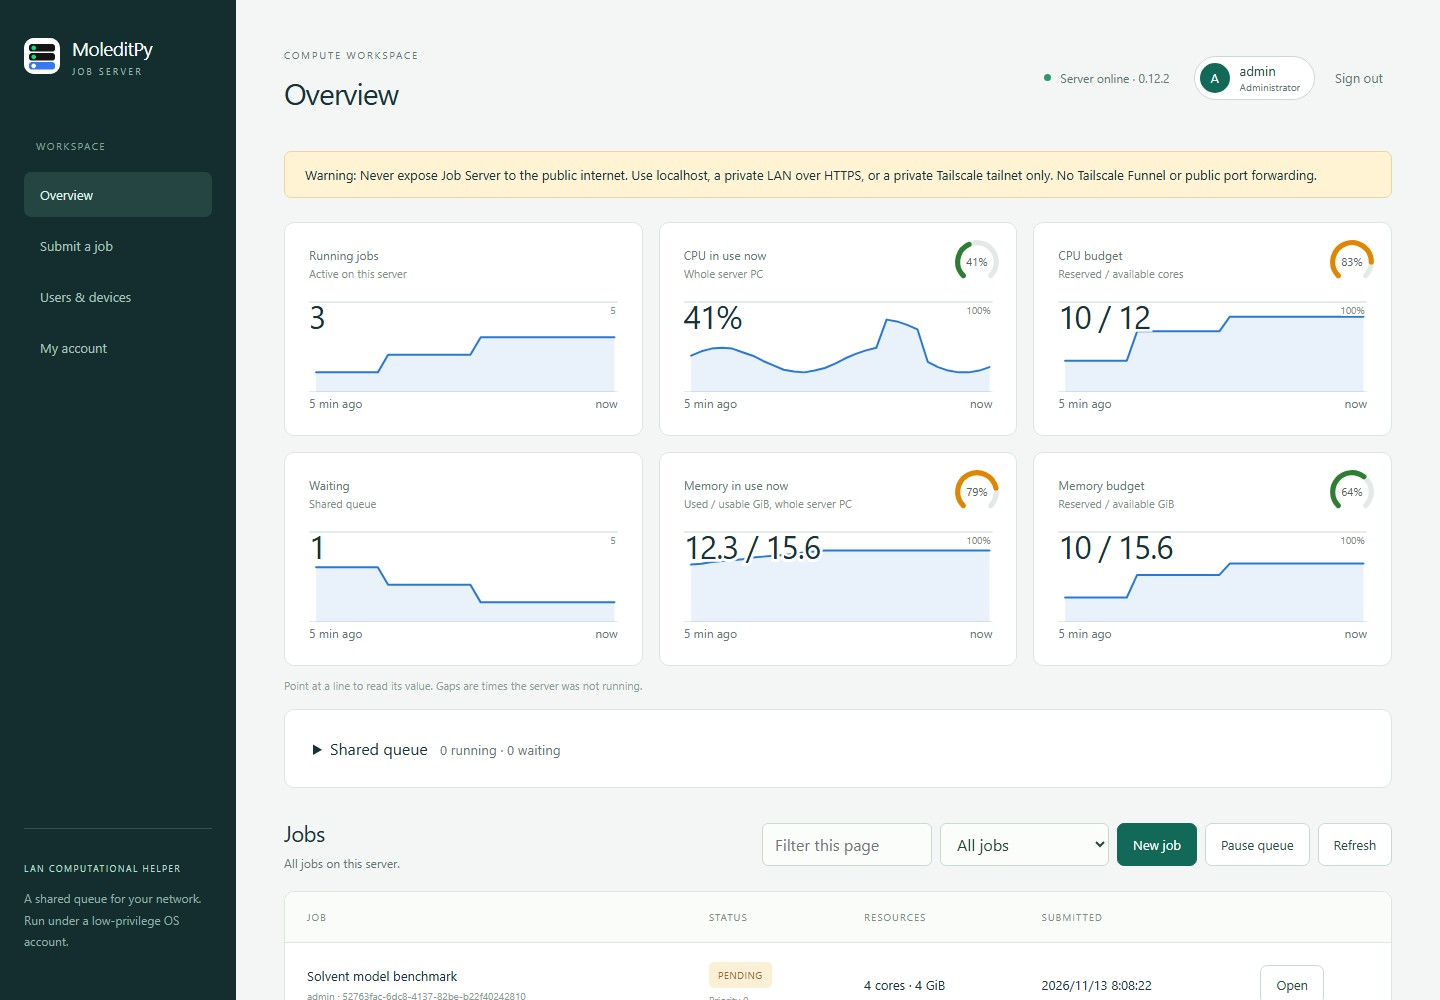
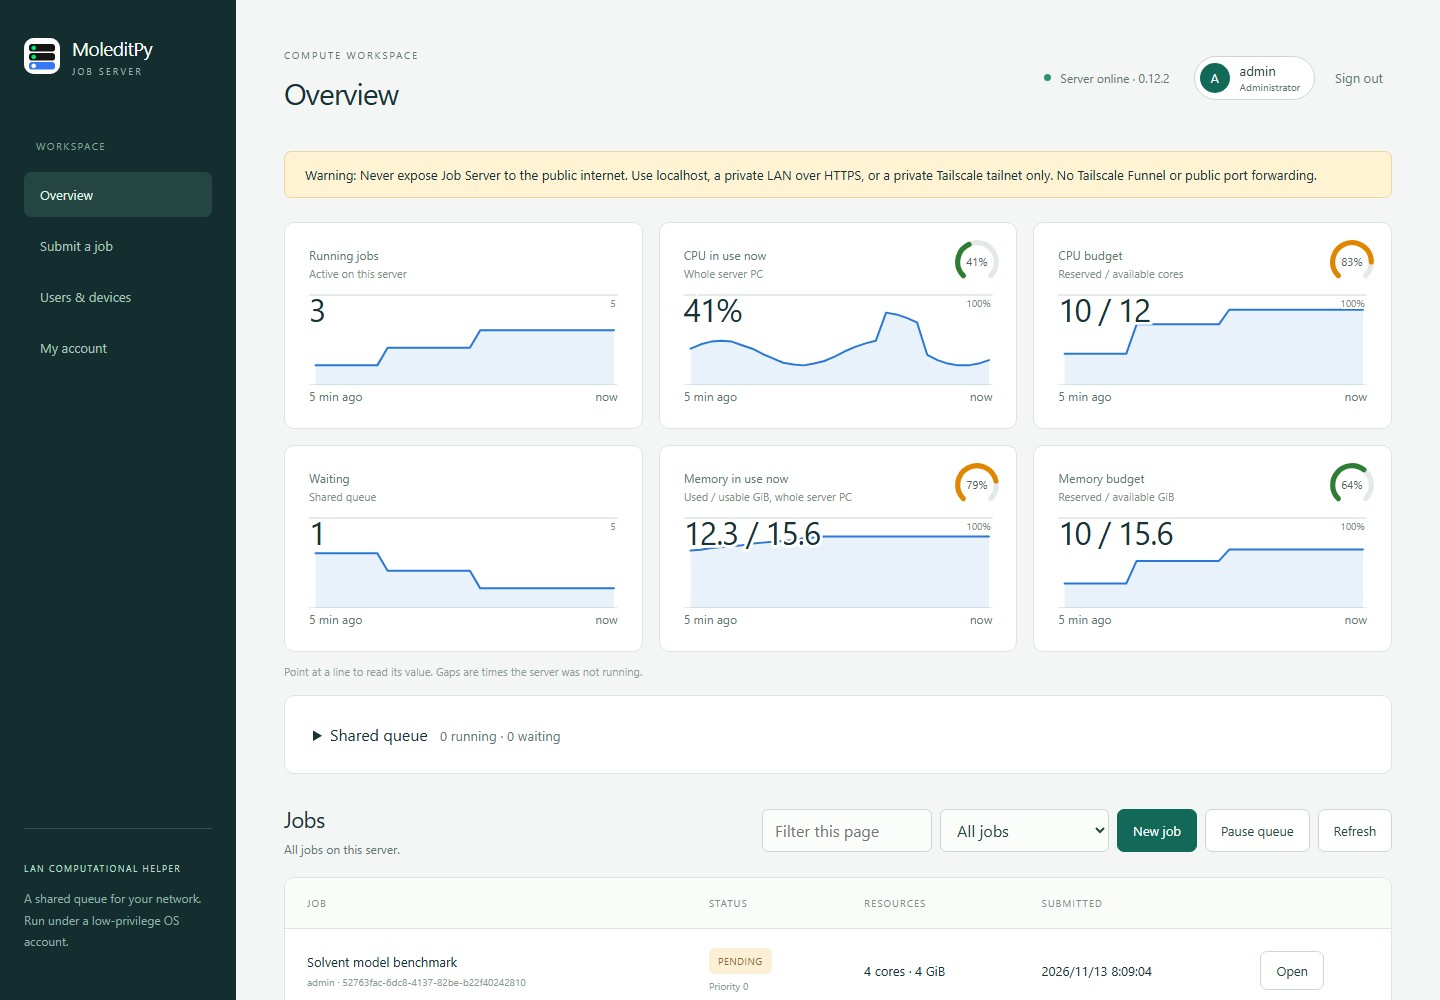
Raise the web figures closer to their captions

diff --git a/job_server/web/app.css b/job_server/web/app.css
@@ -1,5 +1,5 @@
 @font-face{font-family:system;src:local("Segoe UI")}
-:root{font-family:system,Inter,ui-sans-serif,sans-serif;color:#193237;background:#f4f6f5;font-synthesis:none;--line:#dce5e2;--muted:#637774;--teal:#126958;--nav:#142e30}*{box-sizing:border-box}body{margin:0;display:flex;min-height:100vh}button,input,textarea,select{font:inherit}button{cursor:pointer;border:1px solid #cad8d3;background:white;border-radius:7px;color:#254b44;font-size:13px;font-weight:600;padding:10px 15px;white-space:nowrap}button:hover{background:#edf5f1}tr.clickable{cursor:pointer}tr.clickable:hover td{background:#f3f8f6}button:disabled{opacity:.45;cursor:default}button:focus-visible,a:focus-visible{outline:3px solid #78cbb1;outline-offset:3px}.primary{background:var(--teal);color:white;border-color:var(--teal)}.primary:hover{background:#0e5144}[hidden]{display:none!important}.sidebar{width:236px;background:var(--nav);color:#dcece6;padding:35px 24px;position:fixed;inset:0 auto 0 0;display:flex;flex-direction:column}.brand{display:flex;align-items:center;gap:12px;text-decoration:none;color:white;font-size:19px;font-weight:700;letter-spacing:-.5px}.brand-mark{background:#b8e4ca;border-radius:10px;width:36px;height:36px;display:grid;place-items:center;color:#164f3d;font-size:23px}.brand small{display:block;font-size:9px;letter-spacing:2.3px;font-weight:500;margin-top:4px;color:#9bb9ad}.nav-caption{font-size:10px;letter-spacing:1.5px;color:#83a69b;margin:62px 12px 16px}.nav{width:100%;text-align:left;border:0;background:transparent;color:#a8c4bb;margin:3px 0;padding:14px 16px}.nav.active,.nav:hover{background:#244541;color:#e2f8e9}.sidebar-bottom{margin-top:auto;border-top:1px solid #35524c;padding-top:26px}.preview{font-size:9px;letter-spacing:1.4px;color:#b8ddc7}.sidebar-bottom p{font-size:12px;color:#8fb0a4;line-height:1.8}.quiet{border-color:#446b5d;background:transparent;color:white}main{margin-left:236px;padding:42px 48px;width:calc(100% - 236px);max-width:1600px}header{display:flex;justify-content:space-between;align-items:center;margin-bottom:38px}.eyebrow{font-size:10px;font-weight:700;letter-spacing:1.8px;color:var(--muted)}h1{font-size:30px;font-weight:600;margin:10px 0 0;letter-spacing:-1px}.connection{display:flex;align-items:center;gap:9px;font-size:12px;color:var(--muted)}.dot{height:7px;width:7px;display:block;border-radius:50%;background:#c5ccca}.dot.online{background:#2e956f}.connection button{margin-left:15px}.welcome{background:#e2eee7;border:1px solid #d5e5da;padding:34px 38px;border-radius:12px;display:flex;align-items:center;justify-content:space-between;gap:20px}.welcome .eyebrow{color:#477765}h2{font-size:22px;font-weight:600;letter-spacing:-.6px}.welcome h2{font-size:30px;line-height:1.2;margin:14px 0}.welcome p{color:#567368;font-size:14px;line-height:1.7;margin-bottom:0}.welcome .primary{padding:13px 19px}.welcome .primary span{padding-left:20px}.metrics{display:grid;grid-template-columns:repeat(4,1fr);gap:16px;margin:24px 0 38px}.metrics article{background:white;border:1px solid var(--line);border-radius:10px;padding:24px}.metrics span{display:block;color:var(--muted);font-size:12px}.metrics strong{display:block;font-size:32px;font-weight:500;margin:13px 0;letter-spacing:-1px}.metrics small{display:block;margin-top:3px;font-size:11px;color:#7e9189}.metrics article{position:relative}.dial{position:absolute;top:14px;right:14px;width:50px;height:50px}.dial path{fill:none;stroke-width:4.5;stroke-linecap:round}.dial-track{stroke:#e3e9e7}.dial-value{stroke:#2e7d32}.dial-text{font-size:10px;font-weight:600;fill:#52655f;text-anchor:middle}.dial-value.warn{stroke:#e08600}.dial-value.high{stroke:#c62828}.dial-value.unknown{opacity:0}.trend{margin-top:-50px}.metrics strong,.metrics small,.metrics article>span{position:relative;z-index:1;pointer-events:none}.dial{z-index:1}.metrics strong,.metrics small{-webkit-text-stroke:5px white;paint-order:stroke fill}.trend-top-label{font-size:10px;fill:#7e9189;text-anchor:end;stroke:white;stroke-width:4px;stroke-linejoin:round;paint-order:stroke fill}.trend-area{fill:#2a78d6;opacity:.1}.trend svg{display:block;width:100%;height:92px;overflow:visible}.trend-base{stroke:#e3e9e7;stroke-width:1}.trend-top{stroke:#cad8d3;stroke-width:1}.trend-line{fill:none;stroke:#2a78d6;stroke-width:2;stroke-linejoin:round;stroke-linecap:round}.trend-cross{stroke:#9aa9a4;stroke-width:1}.trend-dot{fill:#2a78d6;stroke:white;stroke-width:2}.trend-axis{display:flex;justify-content:space-between;font-size:10px;color:#8d9d97;margin-top:3px}.metrics{margin-bottom:12px}.span-row{display:flex;justify-content:space-between;align-items:center;gap:12px;margin:0 0 30px}.span-row small{font-size:11px;color:#8d9d97}.span-switch{display:flex;border:1px solid #cad8d3;border-radius:7px;overflow:hidden;background:white}.span-switch button{border:0;border-radius:0;padding:6px 12px;font-size:12px;color:#52655f;background:transparent}.span-switch button+button{border-left:1px solid #e3e9e7}.span-switch button.active{background:var(--teal);color:white}.trend-tip{position:fixed;z-index:20;pointer-events:none;background:#193237;color:white;font-size:12px;padding:5px 8px;border-radius:6px;white-space:nowrap}.section-head{display:flex;justify-content:space-between;align-items:center;margin:20px 0}.section-head h2,.section-head h3{margin:0 0 7px}.section-head p{margin:0;color:var(--muted);font-size:12px}.actions{display:flex;gap:8px}.table-wrap{background:white;border:1px solid var(--line);border-radius:10px;overflow:auto}table{border-collapse:collapse;width:100%;text-align:left;font-size:13px}th{background:#fafcfa;color:#7a8e85;font-size:10px;text-transform:uppercase;letter-spacing:1px;font-weight:600;padding:18px 22px;border-bottom:1px solid var(--line)}td{padding:19px 22px;border-bottom:1px solid #edf1ed}tr:last-child td{border:0}.job-name{font-weight:600}.job-id{display:block;color:#8a9b95;font-size:10px;margin-top:5px}.badge{display:inline-block;font-size:10px;letter-spacing:.4px;padding:6px 9px;border-radius:5px;background:#edf1ef;color:#60766a}.badge.running,.badge.done{background:#dff0e6;color:#21694c}.badge.pending,.badge.queued,.badge.uploading{background:#fbefd6;color:#92692c}.badge.failed,.badge.lost,.badge.cancelled,.badge.blocked{background:#f8e5e0;color:#9f5546}.empty{text-align:center;color:#8a9b92;padding:70px 20px}.footnote{font-size:11px;line-height:1.7;color:#86998f;margin-top:26px}.notice{background:#fff3d4;border:1px solid #ecd5a1;border-radius:7px;padding:14px 20px;font-size:13px;margin-bottom:20px}.card{background:white;border:1px solid var(--line);padding:28px;border-radius:10px}.form-card{max-width:830px}label{display:block;font-size:12px;font-weight:600;margin-bottom:20px;color:#466356}input,textarea,select{display:block;width:100%;border:1px solid #ccd9d1;border-radius:6px;background:#fbfdfb;color:#244737;padding:12px;margin-top:8px;outline-color:#67b695}textarea{font-family:ui-monospace,Consolas,monospace;font-size:13px;resize:vertical}label small{display:block;font-weight:400;font-size:11px;color:#809488;margin-top:9px;line-height:1.5}.form-row{display:flex;gap:20px;align-items:end}.form-row label{flex:1}.form-actions{display:flex;justify-content:space-between;align-items:center;gap:14px;margin-top:10px}.form-actions span{font-size:12px;color:var(--muted)}.checkbox{display:flex;align-items:center;gap:10px}.checkbox input{width:16px;margin:0}.device-title{margin-top:35px}.paging{display:flex;justify-content:flex-end;align-items:center;gap:16px;margin-top:16px;font-size:12px;color:var(--muted)}pre{white-space:pre-wrap;overflow-wrap:anywhere;font:12px/1.7 ui-monospace,Consolas,monospace;background:#eaf0eb;padding:20px;border-radius:8px}.log{background:#18332e;color:#c6e4d0;min-height:180px;max-height:400px;overflow:auto}.results{padding:0;list-style:none}.results li{display:flex;justify-content:space-between;align-items:center;background:white;border-bottom:1px solid var(--line);padding:14px 18px;font-size:13px}.results small{color:var(--muted);padding-left:12px}dialog{border:1px solid var(--line);border-radius:14px;padding:34px;max-width:470px;width:calc(100vw - 40px);color:#244135}dialog::backdrop{background:#112e28aa;backdrop-filter:blur(4px)}dialog p{font-size:13px;color:var(--muted);line-height:1.6}dialog h2{font-size:26px}#login-status{color:#a65236}
+:root{font-family:system,Inter,ui-sans-serif,sans-serif;color:#193237;background:#f4f6f5;font-synthesis:none;--line:#dce5e2;--muted:#637774;--teal:#126958;--nav:#142e30}*{box-sizing:border-box}body{margin:0;display:flex;min-height:100vh}button,input,textarea,select{font:inherit}button{cursor:pointer;border:1px solid #cad8d3;background:white;border-radius:7px;color:#254b44;font-size:13px;font-weight:600;padding:10px 15px;white-space:nowrap}button:hover{background:#edf5f1}tr.clickable{cursor:pointer}tr.clickable:hover td{background:#f3f8f6}button:disabled{opacity:.45;cursor:default}button:focus-visible,a:focus-visible{outline:3px solid #78cbb1;outline-offset:3px}.primary{background:var(--teal);color:white;border-color:var(--teal)}.primary:hover{background:#0e5144}[hidden]{display:none!important}.sidebar{width:236px;background:var(--nav);color:#dcece6;padding:35px 24px;position:fixed;inset:0 auto 0 0;display:flex;flex-direction:column}.brand{display:flex;align-items:center;gap:12px;text-decoration:none;color:white;font-size:19px;font-weight:700;letter-spacing:-.5px}.brand-mark{background:#b8e4ca;border-radius:10px;width:36px;height:36px;display:grid;place-items:center;color:#164f3d;font-size:23px}.brand small{display:block;font-size:9px;letter-spacing:2.3px;font-weight:500;margin-top:4px;color:#9bb9ad}.nav-caption{font-size:10px;letter-spacing:1.5px;color:#83a69b;margin:62px 12px 16px}.nav{width:100%;text-align:left;border:0;background:transparent;color:#a8c4bb;margin:3px 0;padding:14px 16px}.nav.active,.nav:hover{background:#244541;color:#e2f8e9}.sidebar-bottom{margin-top:auto;border-top:1px solid #35524c;padding-top:26px}.preview{font-size:9px;letter-spacing:1.4px;color:#b8ddc7}.sidebar-bottom p{font-size:12px;color:#8fb0a4;line-height:1.8}.quiet{border-color:#446b5d;background:transparent;color:white}main{margin-left:236px;padding:42px 48px;width:calc(100% - 236px);max-width:1600px}header{display:flex;justify-content:space-between;align-items:center;margin-bottom:38px}.eyebrow{font-size:10px;font-weight:700;letter-spacing:1.8px;color:var(--muted)}h1{font-size:30px;font-weight:600;margin:10px 0 0;letter-spacing:-1px}.connection{display:flex;align-items:center;gap:9px;font-size:12px;color:var(--muted)}.dot{height:7px;width:7px;display:block;border-radius:50%;background:#c5ccca}.dot.online{background:#2e956f}.connection button{margin-left:15px}.welcome{background:#e2eee7;border:1px solid #d5e5da;padding:34px 38px;border-radius:12px;display:flex;align-items:center;justify-content:space-between;gap:20px}.welcome .eyebrow{color:#477765}h2{font-size:22px;font-weight:600;letter-spacing:-.6px}.welcome h2{font-size:30px;line-height:1.2;margin:14px 0}.welcome p{color:#567368;font-size:14px;line-height:1.7;margin-bottom:0}.welcome .primary{padding:13px 19px}.welcome .primary span{padding-left:20px}.metrics{display:grid;grid-template-columns:repeat(4,1fr);gap:16px;margin:24px 0 38px}.metrics article{background:white;border:1px solid var(--line);border-radius:10px;padding:24px}.metrics span{display:block;color:var(--muted);font-size:12px}.metrics strong{display:block;font-size:32px;font-weight:500;margin:13px 0;letter-spacing:-1px}.metrics small{display:block;margin-top:3px;font-size:11px;color:#7e9189}.metrics small+strong{margin-top:6px}.metrics article{position:relative}.dial{position:absolute;top:14px;right:14px;width:50px;height:50px}.dial path{fill:none;stroke-width:4.5;stroke-linecap:round}.dial-track{stroke:#e3e9e7}.dial-value{stroke:#2e7d32}.dial-text{font-size:10px;font-weight:600;fill:#52655f;text-anchor:middle}.dial-value.warn{stroke:#e08600}.dial-value.high{stroke:#c62828}.dial-value.unknown{opacity:0}.trend{margin-top:-50px}.metrics strong,.metrics small,.metrics article>span{position:relative;z-index:1;pointer-events:none}.dial{z-index:1}.metrics strong,.metrics small{-webkit-text-stroke:5px white;paint-order:stroke fill}.trend-top-label{font-size:10px;fill:#7e9189;text-anchor:end;stroke:white;stroke-width:4px;stroke-linejoin:round;paint-order:stroke fill}.trend-area{fill:#2a78d6;opacity:.1}.trend svg{display:block;width:100%;height:92px;overflow:visible}.trend-base{stroke:#e3e9e7;stroke-width:1}.trend-top{stroke:#cad8d3;stroke-width:1}.trend-line{fill:none;stroke:#2a78d6;stroke-width:2;stroke-linejoin:round;stroke-linecap:round}.trend-cross{stroke:#9aa9a4;stroke-width:1}.trend-dot{fill:#2a78d6;stroke:white;stroke-width:2}.trend-axis{display:flex;justify-content:space-between;font-size:10px;color:#8d9d97;margin-top:3px}.metrics{margin-bottom:12px}.span-row{display:flex;justify-content:space-between;align-items:center;gap:12px;margin:0 0 30px}.span-row small{font-size:11px;color:#8d9d97}.span-switch{display:flex;border:1px solid #cad8d3;border-radius:7px;overflow:hidden;background:white}.span-switch button{border:0;border-radius:0;padding:6px 12px;font-size:12px;color:#52655f;background:transparent}.span-switch button+button{border-left:1px solid #e3e9e7}.span-switch button.active{background:var(--teal);color:white}.trend-tip{position:fixed;z-index:20;pointer-events:none;background:#193237;color:white;font-size:12px;padding:5px 8px;border-radius:6px;white-space:nowrap}.section-head{display:flex;justify-content:space-between;align-items:center;margin:20px 0}.section-head h2,.section-head h3{margin:0 0 7px}.section-head p{margin:0;color:var(--muted);font-size:12px}.actions{display:flex;gap:8px}.table-wrap{background:white;border:1px solid var(--line);border-radius:10px;overflow:auto}table{border-collapse:collapse;width:100%;text-align:left;font-size:13px}th{background:#fafcfa;color:#7a8e85;font-size:10px;text-transform:uppercase;letter-spacing:1px;font-weight:600;padding:18px 22px;border-bottom:1px solid var(--line)}td{padding:19px 22px;border-bottom:1px solid #edf1ed}tr:last-child td{border:0}.job-name{font-weight:600}.job-id{display:block;color:#8a9b95;font-size:10px;margin-top:5px}.badge{display:inline-block;font-size:10px;letter-spacing:.4px;padding:6px 9px;border-radius:5px;background:#edf1ef;color:#60766a}.badge.running,.badge.done{background:#dff0e6;color:#21694c}.badge.pending,.badge.queued,.badge.uploading{background:#fbefd6;color:#92692c}.badge.failed,.badge.lost,.badge.cancelled,.badge.blocked{background:#f8e5e0;color:#9f5546}.empty{text-align:center;color:#8a9b92;padding:70px 20px}.footnote{font-size:11px;line-height:1.7;color:#86998f;margin-top:26px}.notice{background:#fff3d4;border:1px solid #ecd5a1;border-radius:7px;padding:14px 20px;font-size:13px;margin-bottom:20px}.card{background:white;border:1px solid var(--line);padding:28px;border-radius:10px}.form-card{max-width:830px}label{display:block;font-size:12px;font-weight:600;margin-bottom:20px;color:#466356}input,textarea,select{display:block;width:100%;border:1px solid #ccd9d1;border-radius:6px;background:#fbfdfb;color:#244737;padding:12px;margin-top:8px;outline-color:#67b695}textarea{font-family:ui-monospace,Consolas,monospace;font-size:13px;resize:vertical}label small{display:block;font-weight:400;font-size:11px;color:#809488;margin-top:9px;line-height:1.5}.form-row{display:flex;gap:20px;align-items:end}.form-row label{flex:1}.form-actions{display:flex;justify-content:space-between;align-items:center;gap:14px;margin-top:10px}.form-actions span{font-size:12px;color:var(--muted)}.checkbox{display:flex;align-items:center;gap:10px}.checkbox input{width:16px;margin:0}.device-title{margin-top:35px}.paging{display:flex;justify-content:flex-end;align-items:center;gap:16px;margin-top:16px;font-size:12px;color:var(--muted)}pre{white-space:pre-wrap;overflow-wrap:anywhere;font:12px/1.7 ui-monospace,Consolas,monospace;background:#eaf0eb;padding:20px;border-radius:8px}.log{background:#18332e;color:#c6e4d0;min-height:180px;max-height:400px;overflow:auto}.results{padding:0;list-style:none}.results li{display:flex;justify-content:space-between;align-items:center;background:white;border-bottom:1px solid var(--line);padding:14px 18px;font-size:13px}.results small{color:var(--muted);padding-left:12px}dialog{border:1px solid var(--line);border-radius:14px;padding:34px;max-width:470px;width:calc(100vw - 40px);color:#244135}dialog::backdrop{background:#112e28aa;backdrop-filter:blur(4px)}dialog p{font-size:13px;color:var(--muted);line-height:1.6}dialog h2{font-size:26px}#login-status{color:#a65236}
 @media(max-width:1100px){.sidebar{width:200px;padding:30px 18px}main{margin-left:200px;width:calc(100% - 200px);padding:32px 28px}.metrics{gap:10px}.metrics article{padding:18px}.metrics strong{font-size:25px}.welcome{padding:28px}.welcome h2{font-size:26px}}
 @media(max-width:760px){body{display:block}.sidebar{position:static;width:auto;padding:18px 20px;flex-direction:row;align-items:center;justify-content:space-between}.brand{font-size:16px}.brand-mark{width:30px;height:30px}.nav-caption,.sidebar-bottom{display:none}.sidebar nav{display:flex}.nav{padding:10px;font-size:11px;width:auto}.nav[data-panel=accounts]{max-width:95px;white-space:normal}main{margin:0;width:100%;padding:25px 18px}header{margin-bottom:24px;gap:10px}.eyebrow{font-size:9px}h1{font-size:26px}.connection{font-size:10px;gap:6px}.connection button{margin-left:3px;padding:8px}.welcome{padding:24px;align-items:start;flex-direction:column}.welcome h2{font-size:27px}.metrics{grid-template-columns:repeat(2,1fr);margin-bottom:28px}.form-row{flex-wrap:wrap}.form-row label{min-width:110px}th,td{padding:14px 12px}.job-id{max-width:140px;overflow:hidden;text-overflow:ellipsis}.actions button{padding:8px;font-size:11px}.welcome p{font-size:13px}}
 @media(max-width:760px){.connection{flex-wrap:wrap;justify-content:flex-end;max-width:65%}.connection button{margin-left:0}.connection #connection-text{max-width:140px}}
